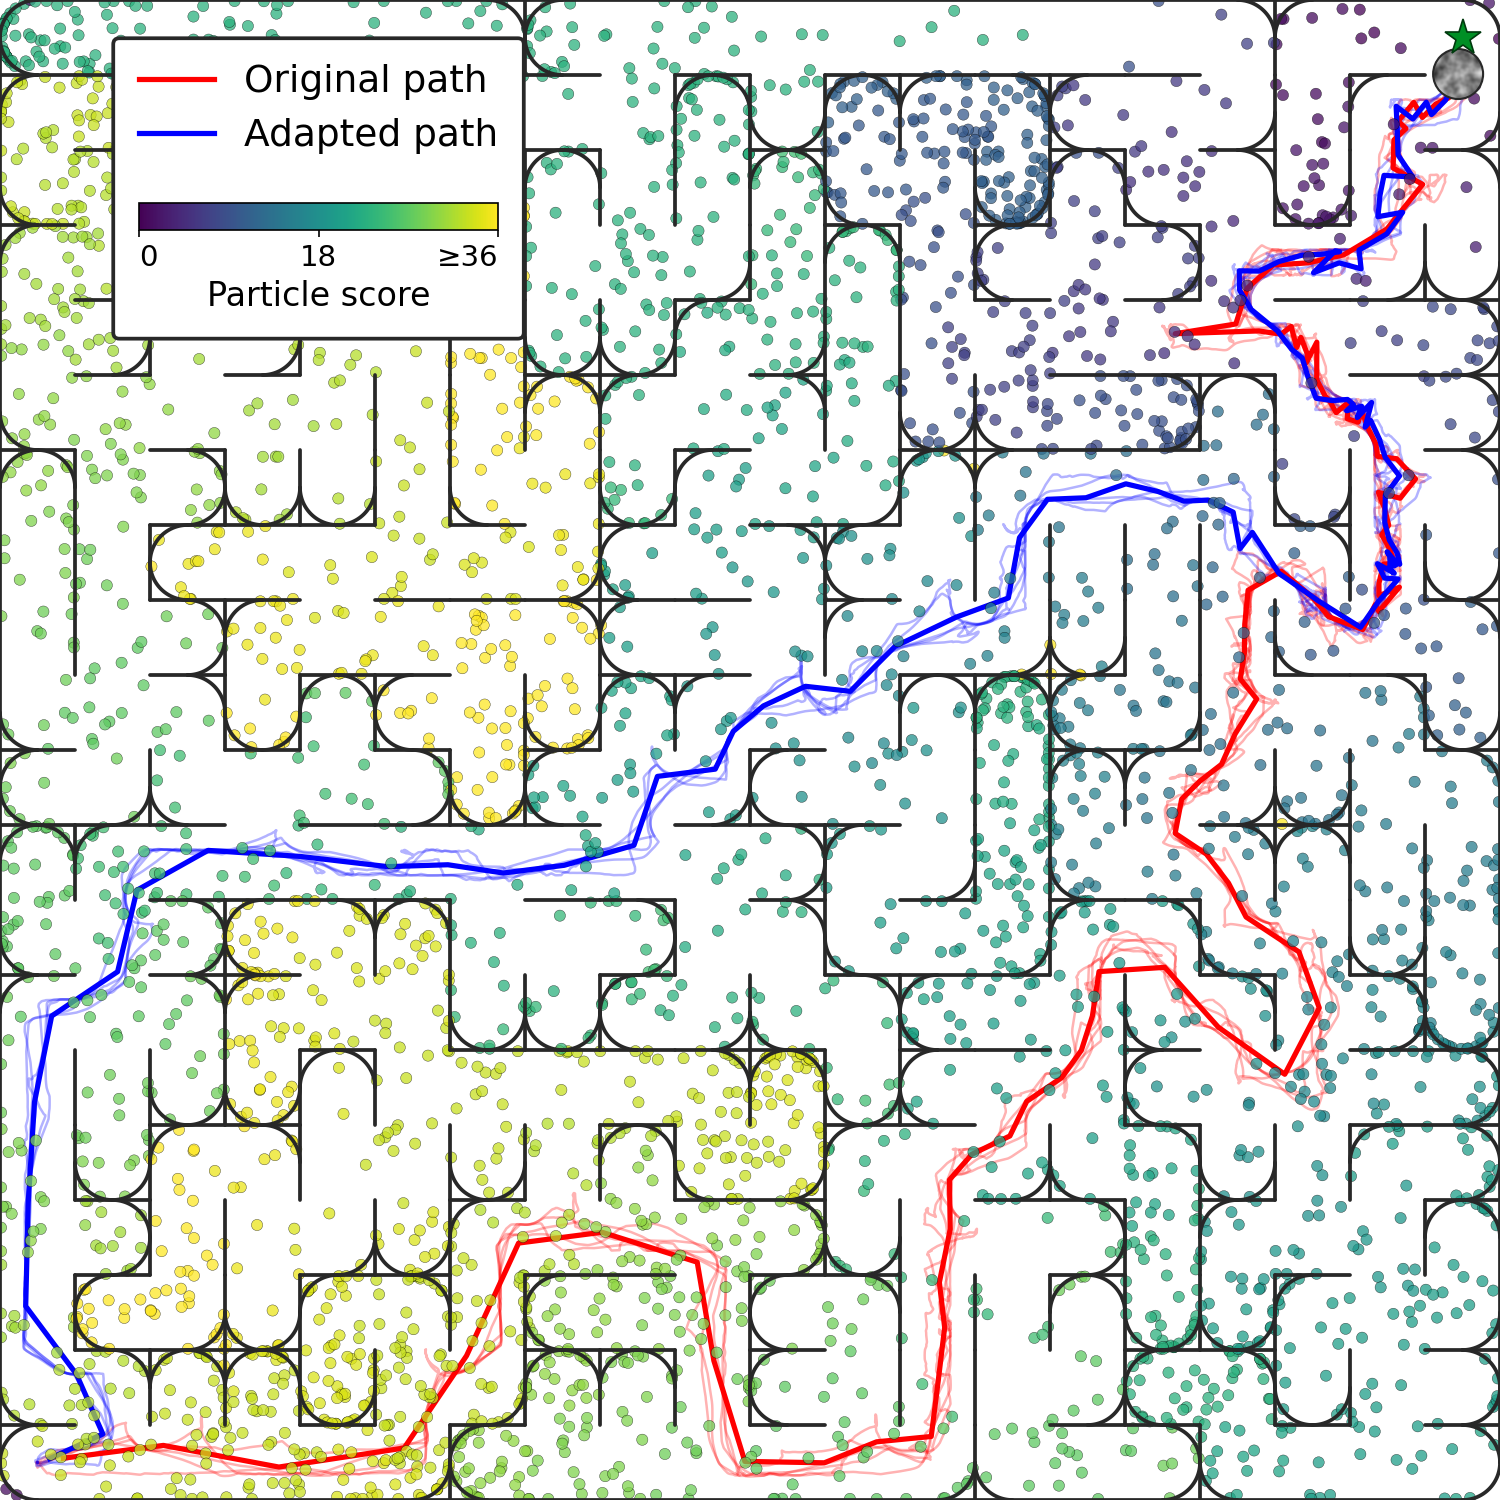
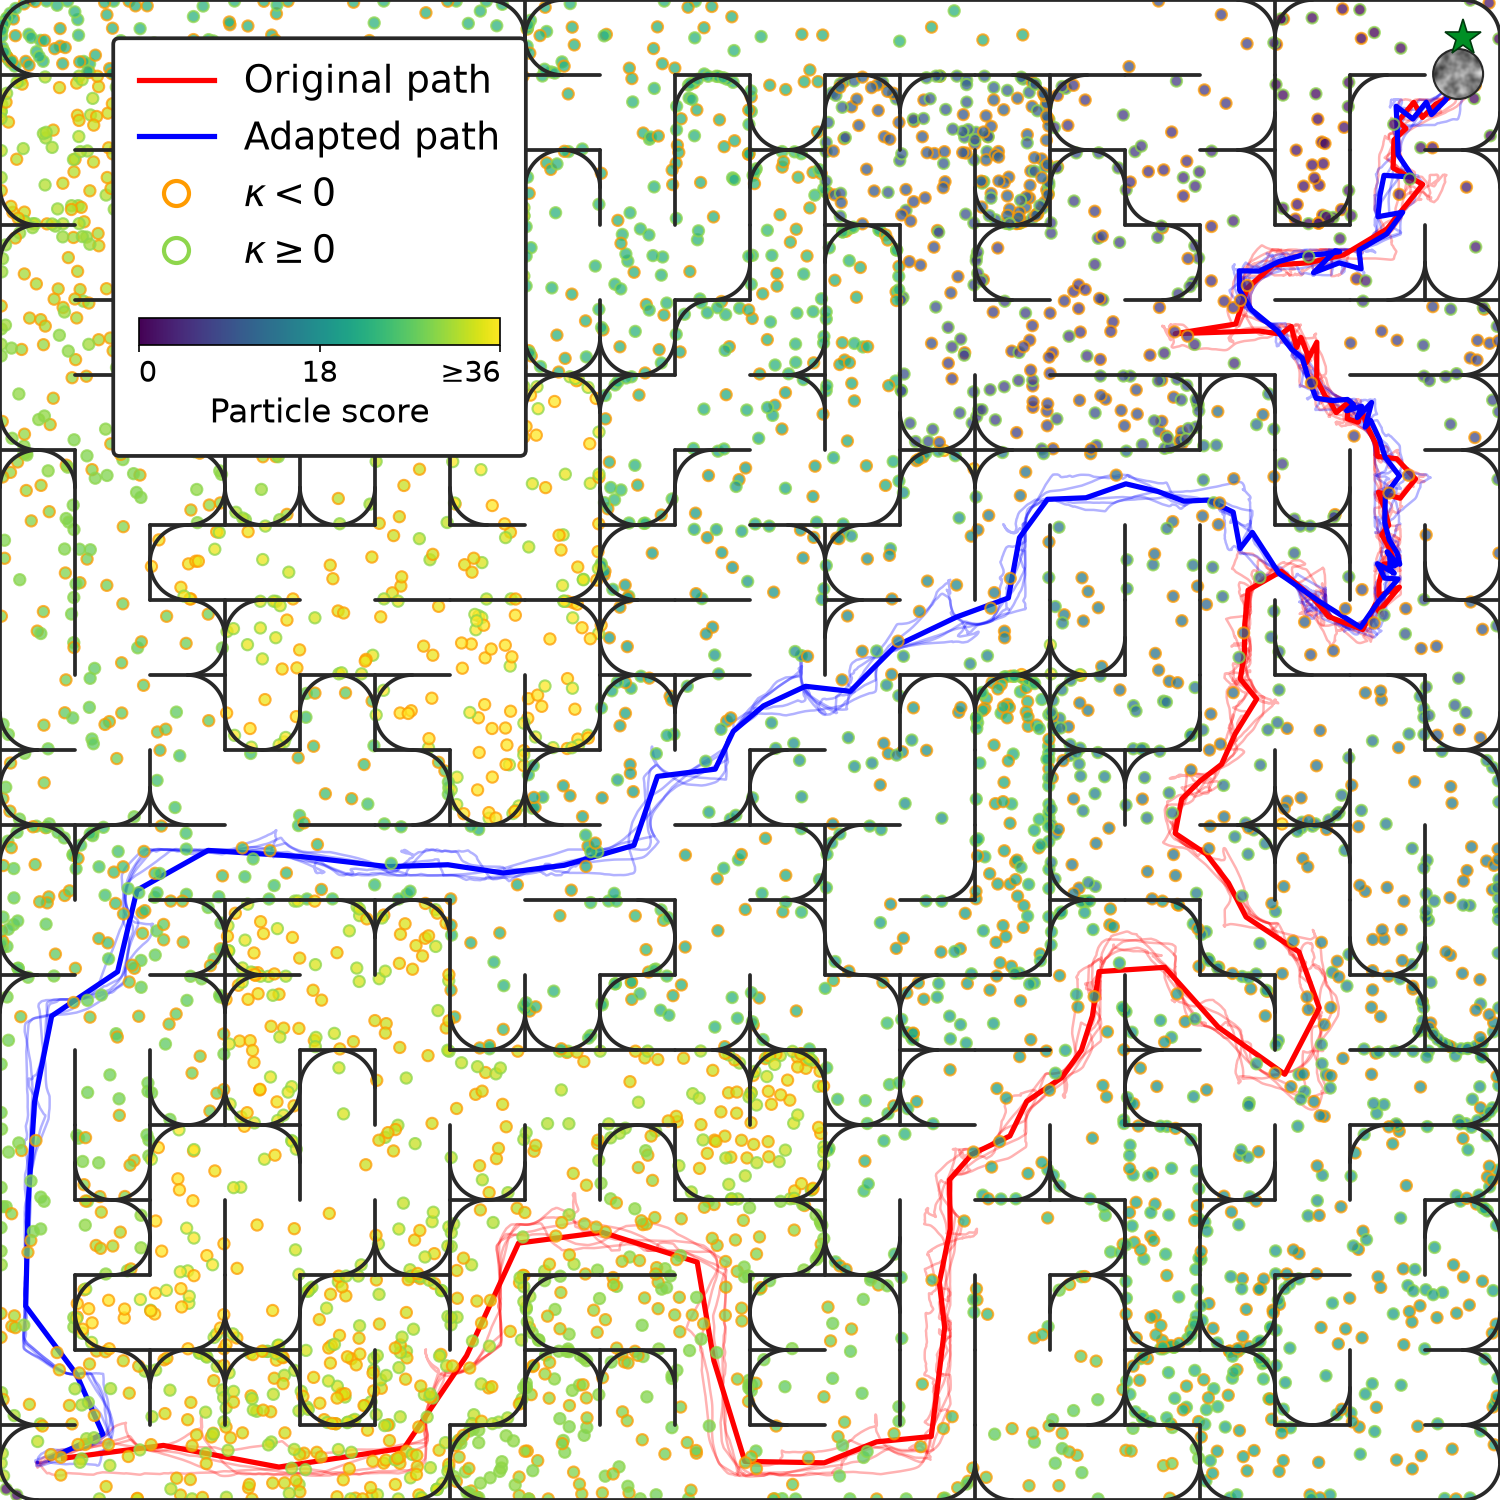
Added edge color to denote curvity

diff --git a/figures/fig1/fig1e/optimality_render.py b/figures/fig1/fig1e/optimality_render.py
@@ -137,22 +137,14 @@ def perlin_noise(size, cells, octaves=1, seed=0):
 
 
 def curvity_color(c):
-    """Neg curvity → #F46036, zero → light gray, pos curvity → #007FFF (azure)."""
-    c = float(np.clip(c, -1, 1))
-    gray = (0.62, 0.62, 0.62)
+    """Neg curvity → #FF9B00 (dutch orange), non-negative curvity → #8ED64C (snot green)."""
     if c < 0:
-        t = c + 1   # 0 at c=-1, 1 at c=0
-        # #FF5500 = (1.0, 0.333, 0.0) — neon orange
-        return (t * gray[0] + (1 - t) * 1.000,
-                t * gray[1] + (1 - t) * 0.333,
-                t * gray[2] + (1 - t) * 0.000)
-    else:
-        t = c       # 0 at c=0, 1 at c=+1
-        # #00AAFF = (0.0, 0.667, 1.0) — neon azure
-        return (gray[0] + t * (0.000 - gray[0]),
-                gray[1] + t * (0.667 - gray[1]),
-                gray[2] + t * (1.000 - gray[2]))
 
+        return "#FF9B00"
+
+    else:
+
+        return "#8ED64C"
 
 
 # ── Main ──────────────────────────────────────────────────────────────────────
@@ -323,6 +315,8 @@ if __name__ == "__main__":
         else:
             colors = [curvity_color(c) for c in last_curvity]
 
+        edge_colors = [curvity_color(c) for c in last_curvity]
+
         r = float(particle_radius[0]) if particle_radius.ndim > 0 else float(particle_radius)
         if box_size > 1200:
             min_r = box_size / 600.0
@@ -333,7 +327,7 @@ if __name__ == "__main__":
         display_radii = np.maximum(particle_radius, min_r) * PARTICLE_RADIUS_SCALE
         circles = [mpatches.Circle((x, y), radius=ri)
                    for (x, y), ri in zip(last_positions, display_radii)]
-        pc = PatchCollection(circles, facecolors=colors, edgecolor='k', alpha=0.75, linewidths=0.2, zorder=6)
+        pc = PatchCollection(circles, facecolors=colors, edgecolor=edge_colors, alpha=0.75, linewidths=1, zorder=6)
         ax.add_collection(pc)
 
         # For small maps (G2) label every particle in the main view
@@ -382,6 +376,31 @@ if __name__ == "__main__":
                 mlines.Line2D([], [], color=PRUNED_PATH_COLOR, alpha=1.0,  linewidth=2.5,
                               label='Adapted path'),
             ]
+    # Add legend entries to denote particles curvity (on edge color)
+        legend_handles += [mlines.Line2D(
+            [], [], 
+            marker='o', 
+            color='none',             # Makes the connecting line fully transparent
+            linestyle='None',         # Disables line rendering entirely
+            markerfacecolor='none',   # Makes the inside of the circle transparent
+            markeredgecolor="#FF9B00",  # The color of the circle's border Dutch orange
+            markeredgewidth=2,        # The thickness of the circle's border
+            markersize=12, 
+            label= r'$\kappa <0$')]
+
+        legend_handles += [mlines.Line2D(
+                    [], [], 
+                    marker='o', 
+                    color='none',             # Makes the connecting line fully transparent
+                    linestyle='None',         # Disables line rendering entirely
+                    markerfacecolor='none',   # Makes the inside of the circle transparent
+                    markeredgecolor = "#8ED64C",  # The color of the circle's border Snot Green for alingers
+                    markeredgewidth=2,        # The thickness of the circle's border
+                    markersize=12, 
+                    label= r'$\kappa \geq 0$')]    
+
+
+        
         leg = ax.legend(
             handles=legend_handles,
             loc='upper left',
